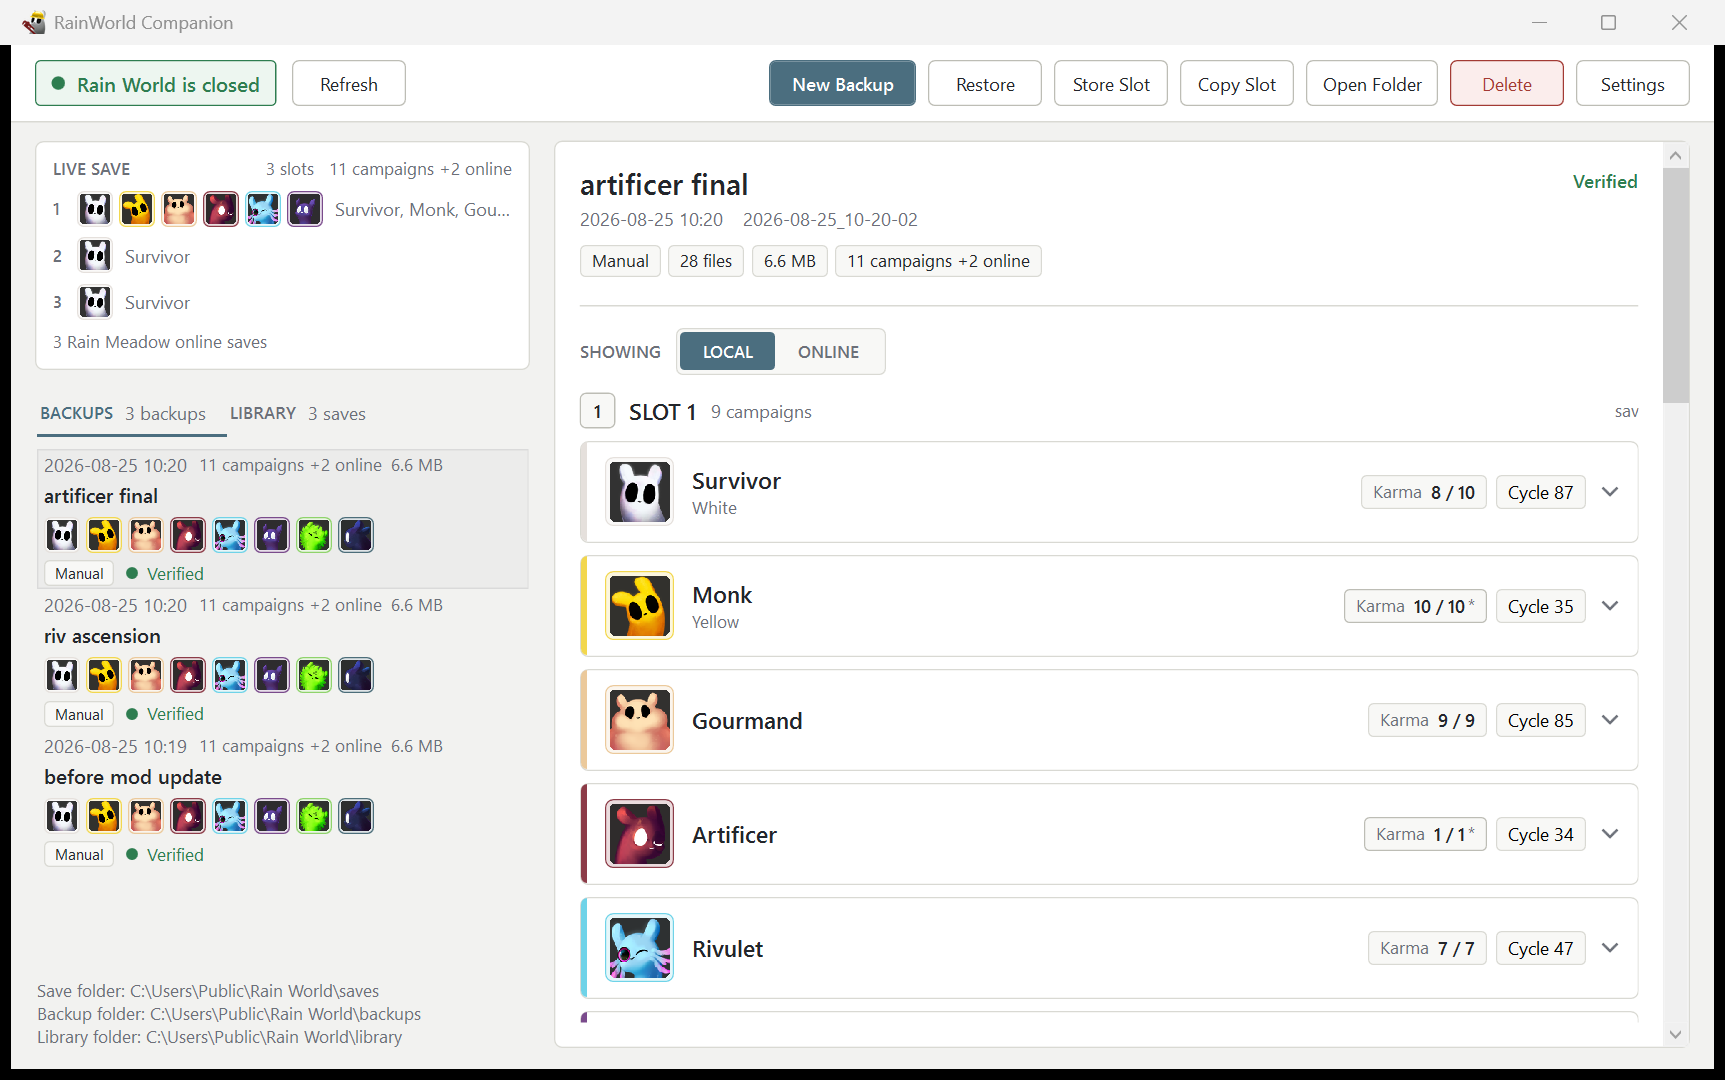
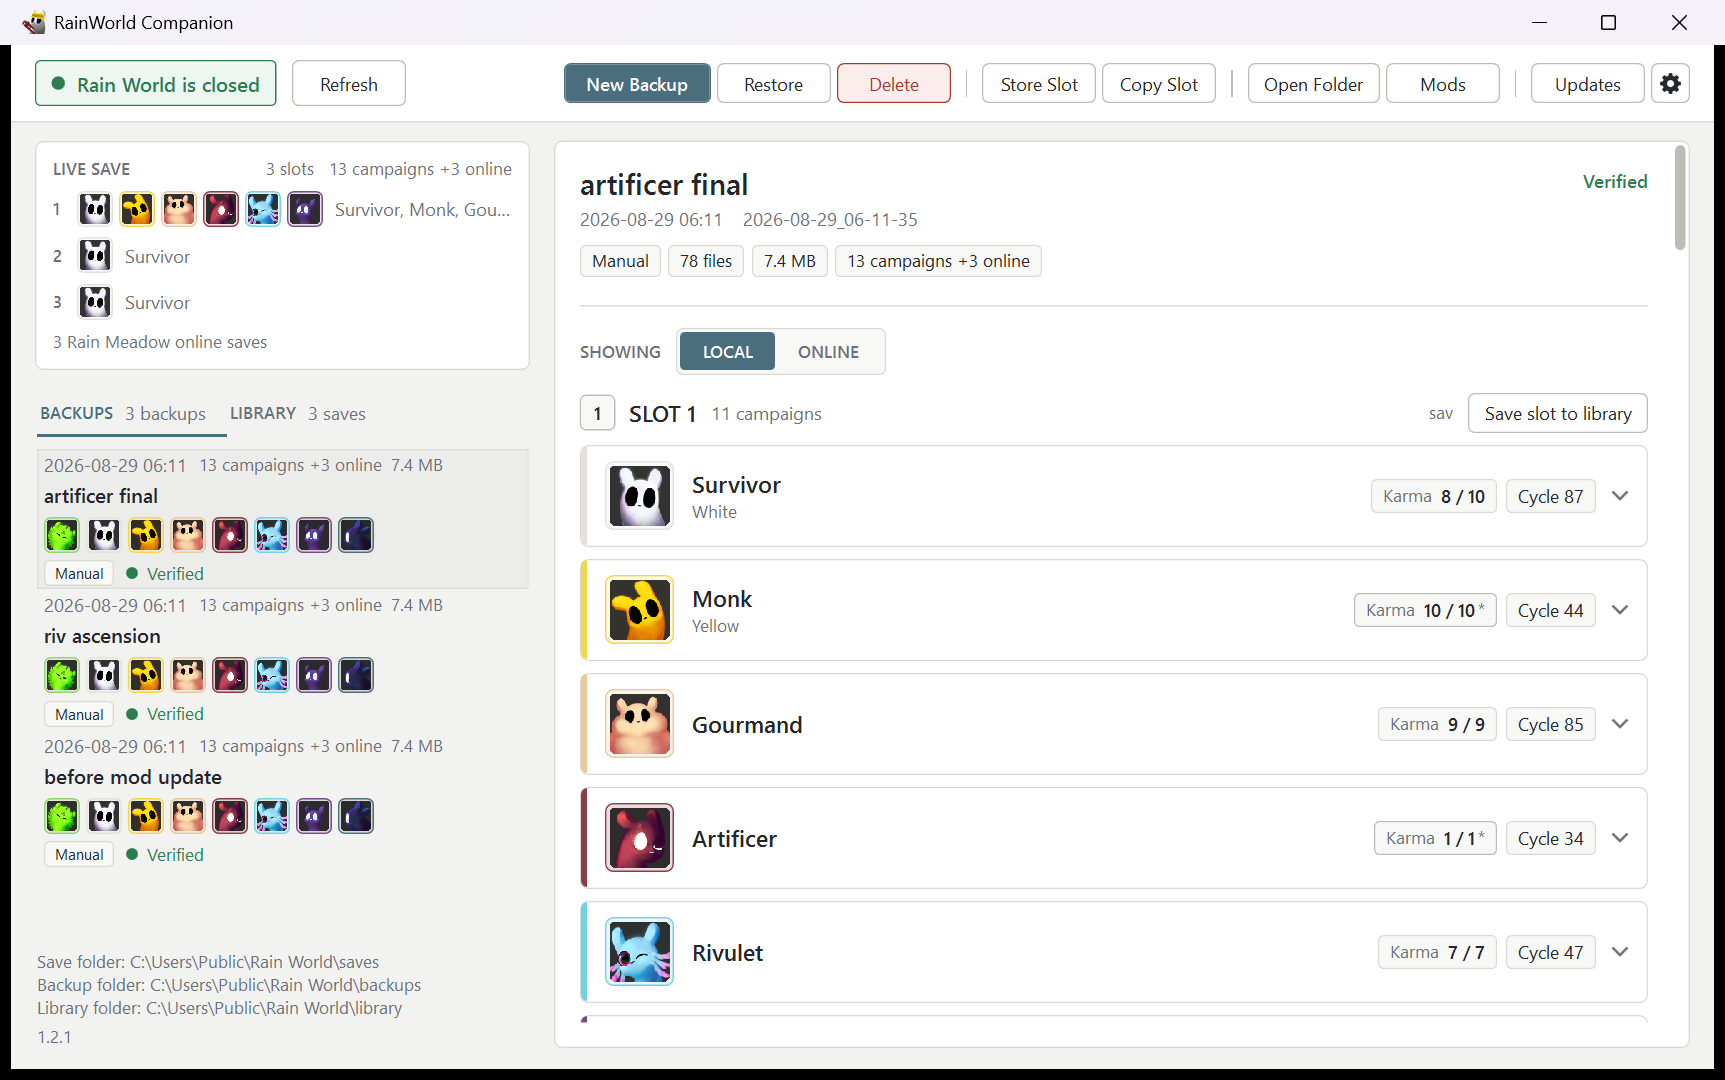
Retake the screenshots, and add the mods and dark ones
The top bar in all of them was a row of nine ungrouped buttons. The new set is
staged the same way as the old, against a save folder under C:\Users\Public.

diff --git a/README.md b/README.md
@@ -37,6 +37,15 @@ the creatures killed.
 The library holds saves outside the game's three slots. An entry can be a whole slot or a single
 campaign lifted out of one, and any of them can be put back into any slot.
 
+![The mods window](docs/screenshots/05-mods.png)
+
+The Mods window turns mods on and off without opening the game. Opened from a save, it says how
+the mods on now differ from the ones that save was played with, and Match the save puts them back.
+
+![The main window in dark mode](docs/screenshots/04-dark.png)
+
+There is a dark theme as well as the light one, under Settings.
+
 The slugcat art is read from your own Rain World install at runtime. None of it is copied into
 this repo or shipped with the app.
 
